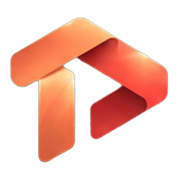
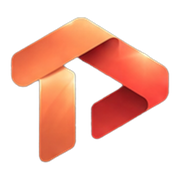
feat(brand): higher-resolution TẤN VA mark

diff --git a/src/components/BrandMark.tsx b/src/components/BrandMark.tsx
@@ -6,8 +6,8 @@ export default function BrandMark({ size = 36, className = '' }: { size?: number
     <Image
       src="/brand/tan-va-mark.png"
       alt=""
-      width={166}
-      height={154}
+      width={493}
+      height={452}
       priority
       className={`!rounded-none object-contain ${className}`}
       style={{ width: size, height: 'auto' }}
